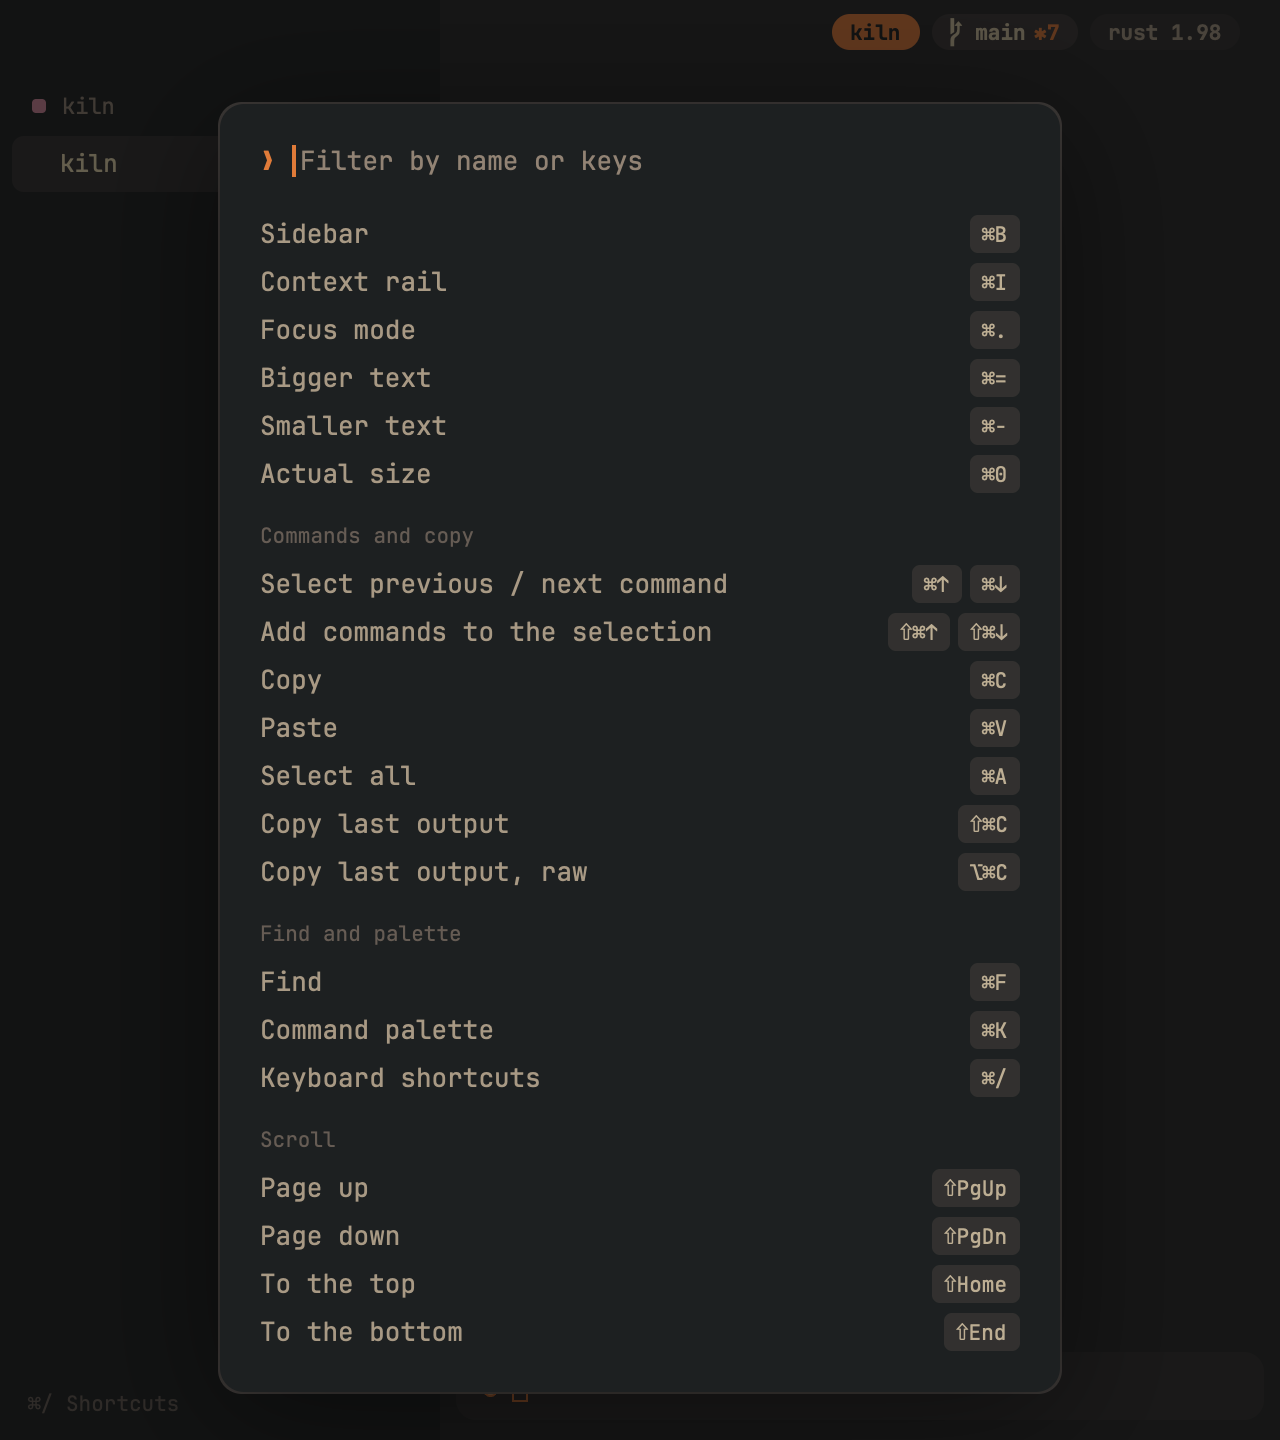
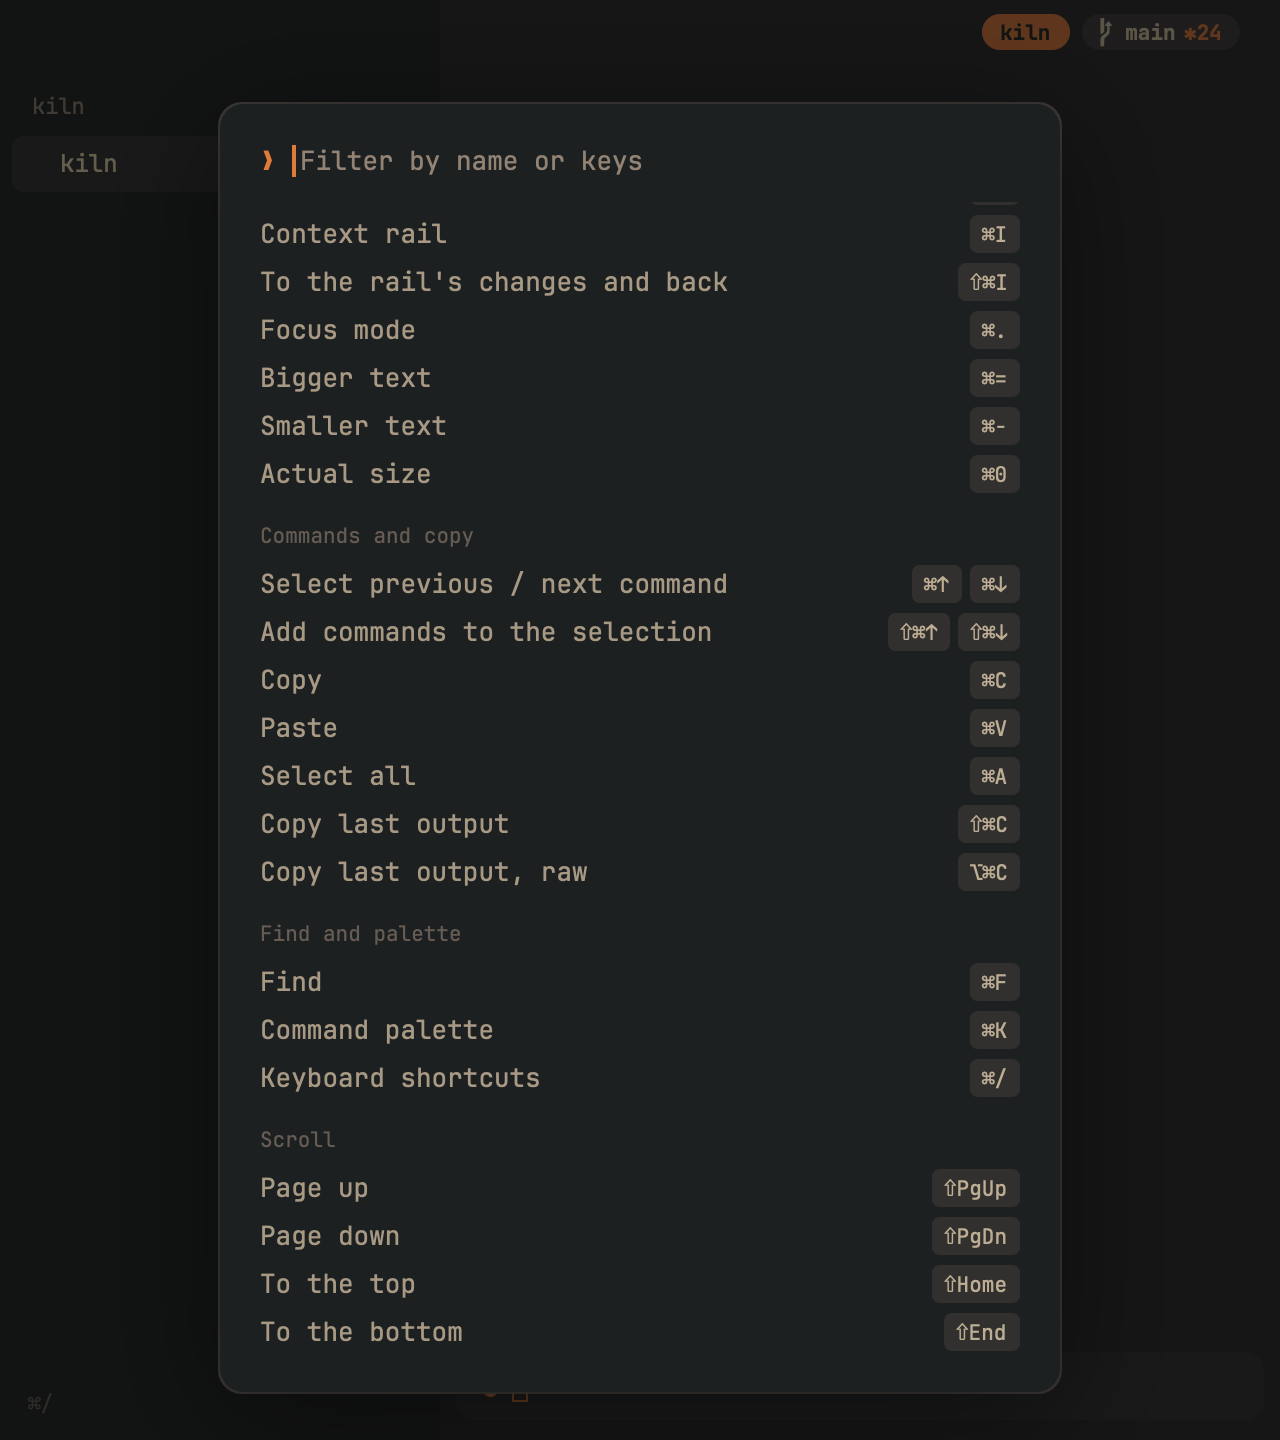
Sidebar hint: the key alone, with a Keyboard shortcuts tooltip
The hint shows only the binding (⌘/ or Ctrl+Shift+/), stays clickable, and
says what it is under the mouse. Sidebar and shortcuts screenshots
regenerated, plus sb9a with the tooltip.

diff --git a/crates/kiln/src/workspace.rs b/crates/kiln/src/workspace.rs
@@ -93,6 +93,33 @@ pub enum Panel {
     Rail,
 }
 
+/// A small label shown under the mouse (GPUI shows it after a moment's hover).
+pub struct Tooltip(SharedString);
+
+impl Tooltip {
+    pub fn view(text: impl Into<SharedString>, cx: &mut App) -> gpui::AnyView {
+        let text = text.into();
+        cx.new(|_| Tooltip(text)).into()
+    }
+}
+
+impl Render for Tooltip {
+    fn render(&mut self, _: &mut Window, _: &mut Context<Self>) -> impl IntoElement {
+        let p = palette();
+        div()
+            .px(px(8.))
+            .py(px(4.))
+            .rounded(px(6.))
+            .bg(theme::hsla(p.raised))
+            .border_1()
+            .border_color(theme::hsla(p.bg1))
+            .font_family(FONT_FAMILY)
+            .text_size(px(11.))
+            .text_color(theme::hsla(p.fg))
+            .child(self.0.clone())
+    }
+}
+
 /// What the sidebar's inline editor renames.
 #[derive(Clone, Debug, PartialEq)]
 pub enum RenameTarget {
@@ -2490,12 +2517,12 @@ impl Workspace {
                         .on_click(|_, window, cx| {
                             window.dispatch_action(Box::new(ToggleShortcuts), cx)
                         })
+                        .tooltip(|_, cx| Tooltip::view("Keyboard shortcuts", cx))
                         .child(SharedString::from(keymap::keys_for(
                             &ToggleShortcuts,
                             cx,
                             key_style(),
-                        )))
-                        .child("Shortcuts"),
+                        ))),
                 ),
             )
             .into_any_element()

diff --git a/crates/kiln/examples/snapshot.rs b/crates/kiln/examples/snapshot.rs
@@ -1567,7 +1567,11 @@ fn sidebar(s: &mut Shots, state_file: &std::path::Path) {
 
     // The shortcuts hint opens the pop-up, which lists the new keys.
     let hint_y = s.workspace(|w| w.sidebar_rows())[0].2;
-    s.click_button(40., hint_y, MouseButton::Left, 1);
+    // Only the key shows; the name comes as a tooltip under the mouse.
+    s.mouse_move(22., hint_y);
+    s.pump(Duration::from_millis(1500));
+    s.shot("sb9a-hint-tooltip");
+    s.click_button(22., hint_y, MouseButton::Left, 1);
     s.shot("sb9-shortcuts");
     s.keystroke("escape");
     std::fs::copy(&path, s.out.join("sb-kiln.toml")).unwrap();
